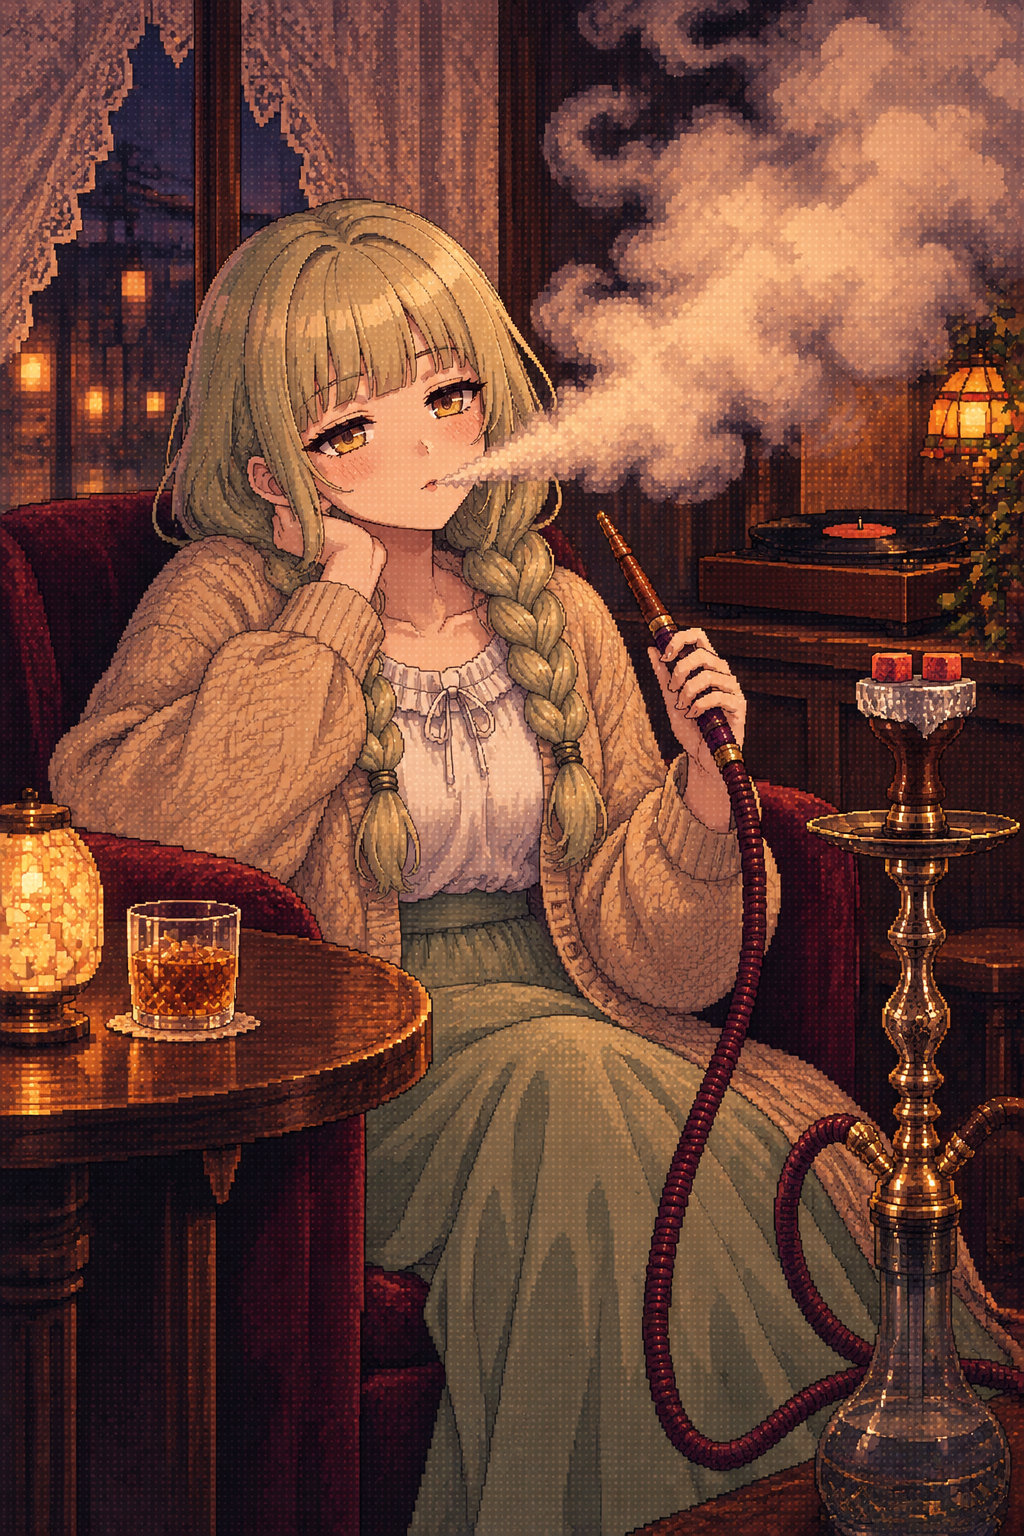
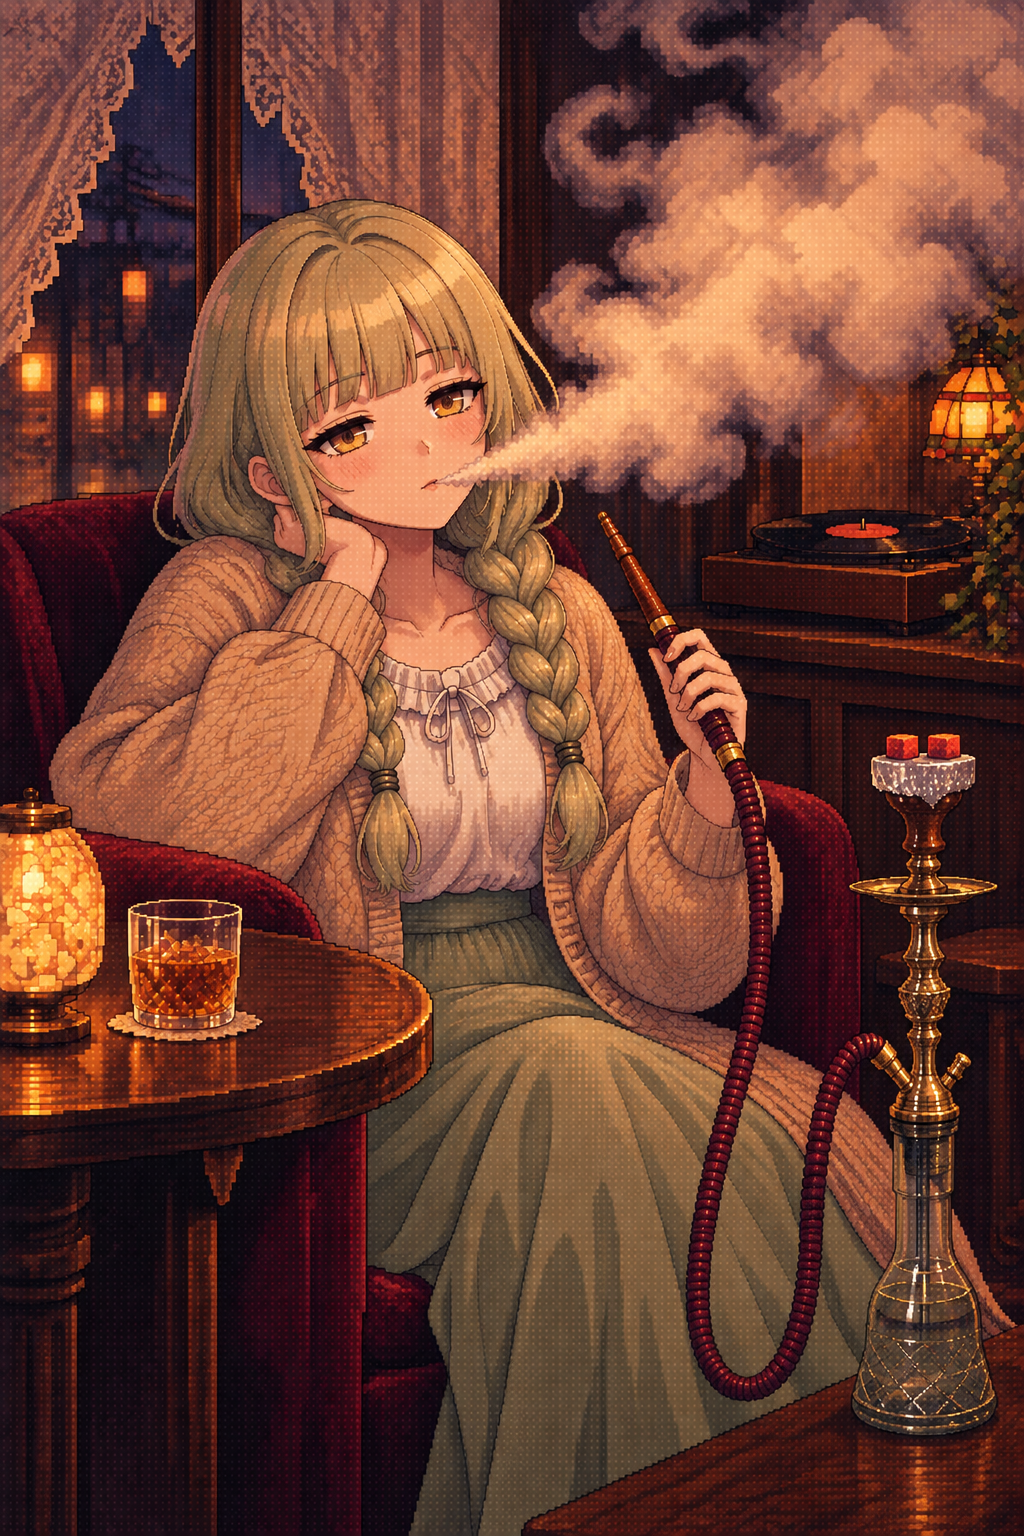
art: add everyday and after-hours scenes and refine real hookah connections

diff --git a/asset_sources/title-art/heroine-concepts-v2-personality-pixel-20261008/comparison.html b/asset_sources/title-art/heroine-concepts-v2-personality-pixel-20261008/comparison.html
@@ -1,0 +1,61 @@
+<!doctype html>
+<html lang="ja">
+<meta charset="utf-8">
+<meta name="viewport" content="width=device-width, initial-scale=1">
+<title>ヒロインアート19案・背景とドット感</title>
+<style>
+*{box-sizing:border-box}body{margin:0;background:#191522;color:#f5effc;font:16px/1.6 system-ui,sans-serif}main{max-width:1500px;margin:auto;padding:24px}h1{font-size:26px;margin:0 0 8px}p{margin:0 0 14px;color:#cfc3db}nav{display:flex;gap:8px;flex-wrap:wrap;position:sticky;top:0;background:#191522ef;padding:12px 0;z-index:3;backdrop-filter:blur(8px)}button{cursor:pointer;font:inherit;border:1px solid #756287;background:#30273e;color:#eee4fa;border-radius:20px;padding:6px 16px}button[aria-pressed="true"]{background:#cfb2ed;color:#24162f}section{margin:20px 0 34px}h2{font-size:22px;margin:0 0 4px}.description{font-size:14px}.grid{display:grid;grid-template-columns:repeat(3,minmax(0,1fr));gap:14px}section[data-character="minto"] .grid{grid-template-columns:repeat(4,minmax(0,1fr))}figure{margin:0;border:1px solid #453650;border-radius:10px;overflow:hidden;background:#251e31}a{color:inherit;text-decoration:none}.art{display:block;width:100%;aspect-ratio:2/3;object-fit:contain;background:#130e1c}figcaption{padding:9px 12px;font-size:14px}.number{color:#bca2d3;margin-right:7px}.frame{display:none;position:relative;aspect-ratio:16/9;background:radial-gradient(ellipse at 70% 45%,#48345188,transparent 60%),linear-gradient(140deg,#241832,#130f20);overflow:hidden}.frame-art{position:absolute;right:-3.125%;top:0;width:43.75%;height:100%;background:center 20%/cover no-repeat;opacity:.95;mask-image:linear-gradient(to right,transparent,#000 34%);-webkit-mask-image:linear-gradient(to right,transparent,#000 34%);image-rendering:pixelated}.logo{position:absolute;width:41%;left:4%;top:11%;filter:drop-shadow(0 2px 3px #000)}.menu{position:absolute;top:48%;left:5%;font-size:clamp(7px,.75vw,12px);letter-spacing:1.8px;line-height:2;color:#fff}.menu span{display:block}.menu .muted{opacity:.4}body.title-mode .art{display:none}body.title-mode .frame{display:block}.previous{display:none;border-top:1px solid #675073}.previous p{margin:0;padding:7px 12px;background:#372c45;font-size:13px}body.previous-mode .previous{display:block}.note{font-size:13px;margin-top:14px;color:#b9a8c8}.hidden{display:none}.unavailable{min-height:100px;padding:20px;color:#c3b0d0}a:focus-visible,button:focus-visible{outline:3px solid #9ed9c5;outline-offset:3px}@media(max-width:900px){section[data-character="minto"] .grid{grid-template-columns:repeat(2,minmax(0,1fr))}}@media(max-width:650px){main{padding:16px}h1{font-size:21px}.grid,section[data-character="minto"] .grid{grid-template-columns:1fr}figure{max-width:420px;width:100%;margin:auto}.menu{font-size:9px}nav{position:static}}@media print{nav{display:none}body{print-color-adjust:exact}}
+</style>
+<main>
+<h1>ヒロインのタイトル用アート・19案</h1>
+<p>6人 × 3場面 ＋ みんとの閉店後。台・背景・色を描き分け、現行タイトルに近い細かなドット感を加えました。</p>
+<nav aria-label="比較表示">
+<button data-mode="original" aria-pressed="true">原画</button>
+<button data-mode="title" aria-pressed="false">タイトル右側で比較</button>
+<button id="previous" aria-pressed="false">前の案も並べる</button>
+<button data-filter="all" aria-pressed="true">全員</button>
+<button data-filter="tsumugi" aria-pressed="false">つむぎ</button>
+<button data-filter="mashiro" aria-pressed="false">ましろ</button>
+<button data-filter="minto" aria-pressed="false">みんと</button>
+<button data-filter="ageha" aria-pressed="false">アゲハ</button>
+<button data-filter="rin" aria-pressed="false">凛</button>
+<button data-filter="kafuka" aria-pressed="false">サメちゃん</button>
+</nav>
+<div id="gallery"></div>
+<p class="note">画像を押すと加工していない原画を開きます。タイトル表示は現行の配置に当てはめた比較用モックアップです。</p>
+</main>
+<script>
+const characters=[
+ ['tsumugi','つむぎ','木の台と創作の部屋・タブレットの猫・日本の川辺', [['01-smoke-colors','煙の色と木のぬくもり'],['02-tablet-cat','タブレットの猫'],['03-twilight-sketch','川辺のスケッチ']]],
+ ['mashiro','ましろ','真鍮の台とレトロ喫茶・朝の台所・雨の駅', [['01-heavy-smoke','レトロ喫茶の一服'],['02-tea-break','小さな台所でお茶'],['03-after-rain','雨の駅で待ち合わせ']]],
+ ['minto','みんと','透明ガラスの台・チェキ・休日の私服・閉店後の素顔', [['01-cafe-welcome','ミント色のお出迎え'],['02-instant-photo','チェキ撮影コーナー'],['03-private-window','休日の窓辺'],['04-after-hours','閉店後の素顔']]],
+ ['ageha','アゲハ','ピンクの台と試香席・優しい買い出しの笑顔・撮影スタジオ', [['01-professional-taste','ピンクの試香席'],['02-grocery-smile','昼の商店街で'],['03-model-moment','撮影スタジオの一瞬']]],
+ ['rin','凛','黒い台と無機質な試香室・黒いダークリーフ・眼鏡とコーヒー', [['01-night-tasting','黒い試香室'],['02-flavor-samples','輸入サンプルを選ぶ'],['03-late-coffee','深夜の窓辺']]],
+ ['kafuka','サメちゃん','青いキューブ型の台・サメ映画・水族館。王冠のコロちゃんと', [['01-shishark-test-run','シーシャークの試運転'],['02-shark-movie','コロちゃんとサメ映画'],['03-aquarium','水族館でコロちゃんと']]]
+];
+function artwork(src,label){
+ const link=document.createElement('a');link.href=src;link.target='_blank';link.rel='noopener';link.setAttribute('aria-label',label+'の原画を開く');
+ const img=document.createElement('img');img.className='art';img.src=src;img.alt=label;link.append(img);
+ const frame=document.createElement('div');frame.className='frame';frame.setAttribute('aria-label',label+'のタイトル配置モックアップ');
+ const art=document.createElement('div');art.className='frame-art';art.style.backgroundImage=`url("${src}")`;frame.append(art);
+ const logo=document.createElement('img');logo.className='logo';logo.src='../../../assets/ui/ui_title_logo_rich.png';logo.alt='水煙前線 -EN:CODE-';frame.append(logo);
+ const menu=document.createElement('div');menu.className='menu';for(const text of ['NEW GAME','LOAD','GALLERY','CONFIG']){const row=document.createElement('span');row.textContent=text;if(text==='LOAD')row.className='muted';menu.append(row)}frame.append(menu);link.append(frame);return link;
+}
+for(const[id,name,description,scenes]of characters){
+ const section=document.createElement('section');section.dataset.character=id;
+ const h=document.createElement('h2');h.textContent=name;section.append(h);
+ const p=document.createElement('p');p.className='description';p.textContent=description;section.append(p);
+ const grid=document.createElement('div');grid.className='grid';section.append(grid);
+ scenes.forEach(([variant,label],index)=>{
+  const figure=document.createElement('figure');figure.dataset.concept=id+'-'+variant;figure.append(artwork(`${id}/${variant}.png`,`${name} — ${label}`));
+  const caption=document.createElement('figcaption'),number=document.createElement('span');number.className='number';number.textContent=String(index+1).padStart(2,'0');caption.append(number,document.createTextNode(label));figure.append(caption);
+  const previous=document.createElement('div');previous.className='previous';
+  const heading=document.createElement('p');heading.textContent='前の案・比較用';previous.append(heading);
+  if(id!=='kafuka'&&index<3){previous.append(artwork(`../heroine-concepts-v1-20261008/${id}/${variant}.png`,`${name} — 前の案 ${label}`))}else{const empty=document.createElement('div');empty.className='unavailable';empty.textContent='今回の追加カット';previous.append(empty)}figure.append(previous);grid.append(figure);
+ });document.querySelector('#gallery').append(section);
+}
+document.querySelectorAll('[data-mode]').forEach(button=>button.addEventListener('click',()=>{document.body.classList.toggle('title-mode',button.dataset.mode==='title');document.querySelectorAll('[data-mode]').forEach(b=>b.setAttribute('aria-pressed',String(b===button)))}));
+document.querySelectorAll('[data-filter]').forEach(button=>button.addEventListener('click',()=>{document.querySelectorAll('section').forEach(s=>s.classList.toggle('hidden',button.dataset.filter!=='all'&&s.dataset.character!==button.dataset.filter));document.querySelectorAll('[data-filter]').forEach(b=>b.setAttribute('aria-pressed',String(b===button)))}));
+document.querySelector('#previous').addEventListener('click',event=>{const on=document.body.classList.toggle('previous-mode');event.currentTarget.setAttribute('aria-pressed',String(on))});
+</script>
+</html>
